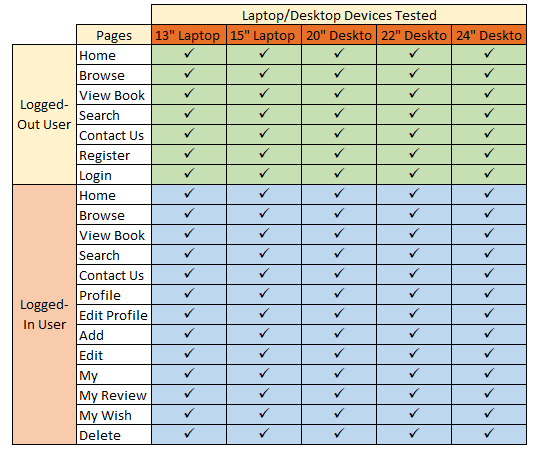
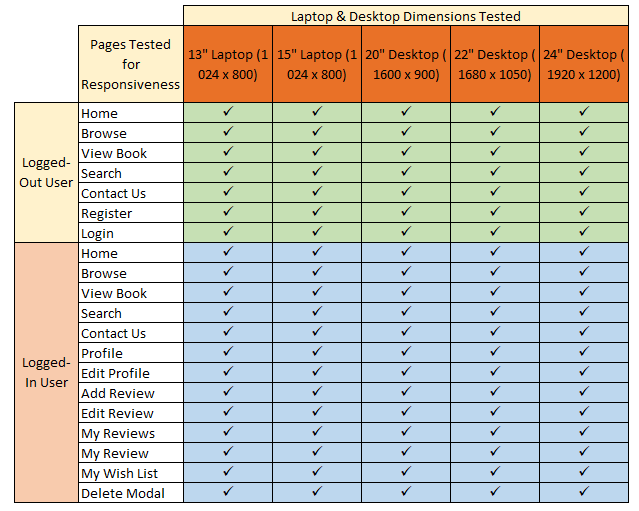
docs: Document responsiveness issues and solutions attempted with regard to the uneven rendering of the Materialize Card elements on the Wish List page.

diff --git a/templates/wish_list.html b/templates/wish_list.html
@@ -18,9 +18,8 @@
                 <div class="card-content">
                     <!-- Bookmark Button to remove the current book from the Wish List array -->
                     <form action="{{ url_for('unmark', book_id=book._id ) }}" method="post">
-                        <button type="submit" name="unmark" value="{{ book._id }}"
-                            class="bookmarked right tooltipped" data-position="bottom"
-                            data-tooltip="Remove book from Wish List."
+                        <button type="submit" name="unmark" value="{{ book._id }}" class="bookmarked right tooltipped"
+                            data-position="bottom" data-tooltip="Remove book from Wish List."
                             aria-label="Button to remove {{ book.title }} from your Wish List">
                             <i class="far fa-bookmark icon-unmarked"></i>
                             <i class="fas fa-bookmark icon-marked"></i>

diff --git a/static/css/style.css b/static/css/style.css
@@ -383,6 +383,7 @@ textarea.materialize-textarea.valid {
     margin-right: 0px;
 }
 
+
 /* 400 and 500 Error Pages ---------------------------------------*/
 .error-text {
     text-align: center;
@@ -415,6 +416,10 @@ textarea.materialize-textarea.valid {
     padding-top: 80px;
     padding-bottom: 80px;
 }
+
+.card .card-content {
+    min-height: 250px;
+}
 }
 
 @media screen and (max-width: 768px) {
@@ -441,5 +446,9 @@ h3 {
 
 .modal-content h5 {
     padding: 0px;
+}
+
+.wishlist a.btn {
+    padding: 0 12px;
 }
 }

diff --git a/app.py b/app.py
@@ -567,20 +567,25 @@ def wish_list():
     else:
         booklist = []
         for book_id in wishlist:
-            # Find the book document in the database
-            this_book = mongo.db.books.find_one(
-                {"_id": ObjectId(book_id)}
-            )
-            # Create the book purchase url
-            # by adding the book title and author to the url
-            this_book_title = this_book["title"].replace(" ", "+")
-            this_book_author = this_book["authors"][0].replace(" ", "+")
-            book_purchase_url = (
-                "https://www.amazon.com/s?tag=falsetag&k=" +
-                this_book_title + "+" + this_book_author)
-            this_book["book_purchase_url"] = book_purchase_url
-            # Add the book to the booklist list
-            booklist.append(this_book)
+            # Check to make sure that the book still exists in the database
+            # If not, skip to next book id
+            if mongo.db.books.find_one(
+                    {"_id": ObjectId(book_id)}):
+                # Find the book document in the database
+                this_book = mongo.db.books.find_one(
+                    {"_id": ObjectId(book_id)})
+                # Create the book purchase url
+                # by adding the book title and author to the url
+                this_book_title = this_book["title"].replace(" ", "+")
+                this_book_author = this_book["authors"][0].replace(" ", "+")
+                book_purchase_url = (
+                    "https://www.amazon.com/s?tag=falsetag&k=" +
+                    this_book_title + "+" + this_book_author)
+                this_book["book_purchase_url"] = book_purchase_url
+                # Add the book to the booklist list
+                booklist.append(this_book)
+            else:
+                continue
     return render_template(
         "wish_list.html", booklist=booklist)
 

diff --git a/README.md b/README.md
@@ -526,6 +526,7 @@ The Read n’ Reviewed website relies on three database collections:
 - Apps:
   * [Balsamiq](https://balsamiq.com/). Used to create the project wireframes.
   * [Inkscape](https://inkscape.org/). Used to edit the Vecteezy svgs.
+  * [Microsoft Excel](https://www.microsoft.com/en-ie/microsoft-365/excel). Used to create the testing spreadsheets.
 
 ##### back to [top](#table-of-contents)
 ---
@@ -691,6 +692,8 @@ function and [Mozilla Firefox Developer Tools](https://developer.mozilla.org/en-
 ![alt text](documentation/readme-images/tablet-devices-tested.png "Grid showing the different tablet devices tested.")
 
 <br>
+
+
 
 **Laptop and Desktop Dimensions Tested:**
 
@@ -1479,6 +1482,27 @@ Although the page would not load and the error was logged, when the page was ref
 The H18 error indicated that the HTTP request had been interrupted by a closed socket before the router had received the HTTP response from the app's web process.
 Changing the return value of the upvote_review() and mark() functions from rendering the view_book.html template to a redirect to the https_url_for view_book.html
 succeeded in eliminating the error. 
+
+<br>
+
+
+### Materialize Card Heights
+
+Responsiveness issues arose during development with regard to the Materialize cards on the Wish List page.  
+The card height rendered changes depending on the length of the book title and the size of the book cover image.  
+This is not an issue on a mobile screen as the cards are stacked one on top of the other. On tablet and desktop screens, however, the layout becomes distorted.
+
+![alt text](documentation/readme-images/uneven-card-heights.png "Screenshot of uneven cards on Wish List page when viewed on a desktop screen.")
+<br>
+
+Answers on [Stack Overflow](https://stackoverflow.com/questions/46064332/materialize-cards-not-on-equal-height)
+suggested stipulating the same height for each image.  This did not take the aspect ratio of the cover images into account and some 
+of the covers then appeared stretched.  As the images are sourced from Google Books API and differ in size the height property was removed.
+
+A Jinja check and filter was later applied to the book titles to truncate those titles that exceeded 20 characters in length. 
+This did improve the layout considerably but made it difficult to identify the books saved.
+
+The current solution being used is that of a min-height property, which has been applied to the card-content div when viewed on a tablet or desktop screen.
 
 ##### back to [top](#table-of-contents)
 ---
